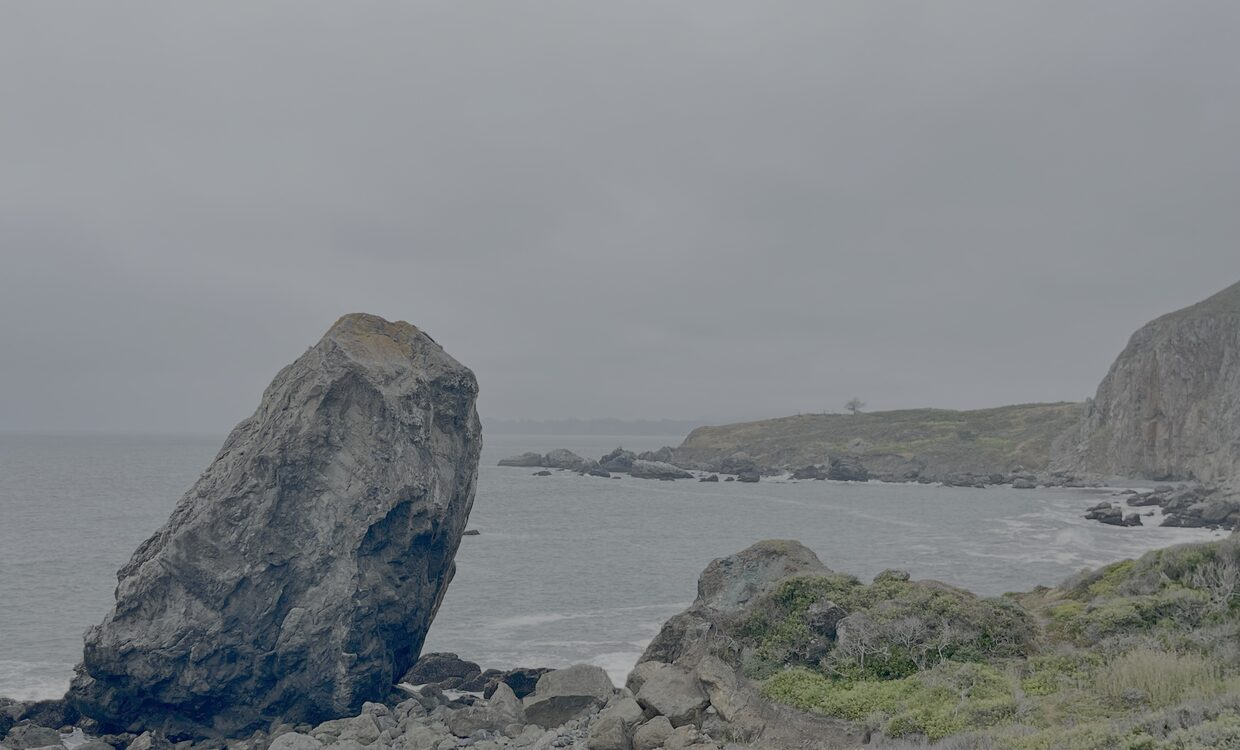
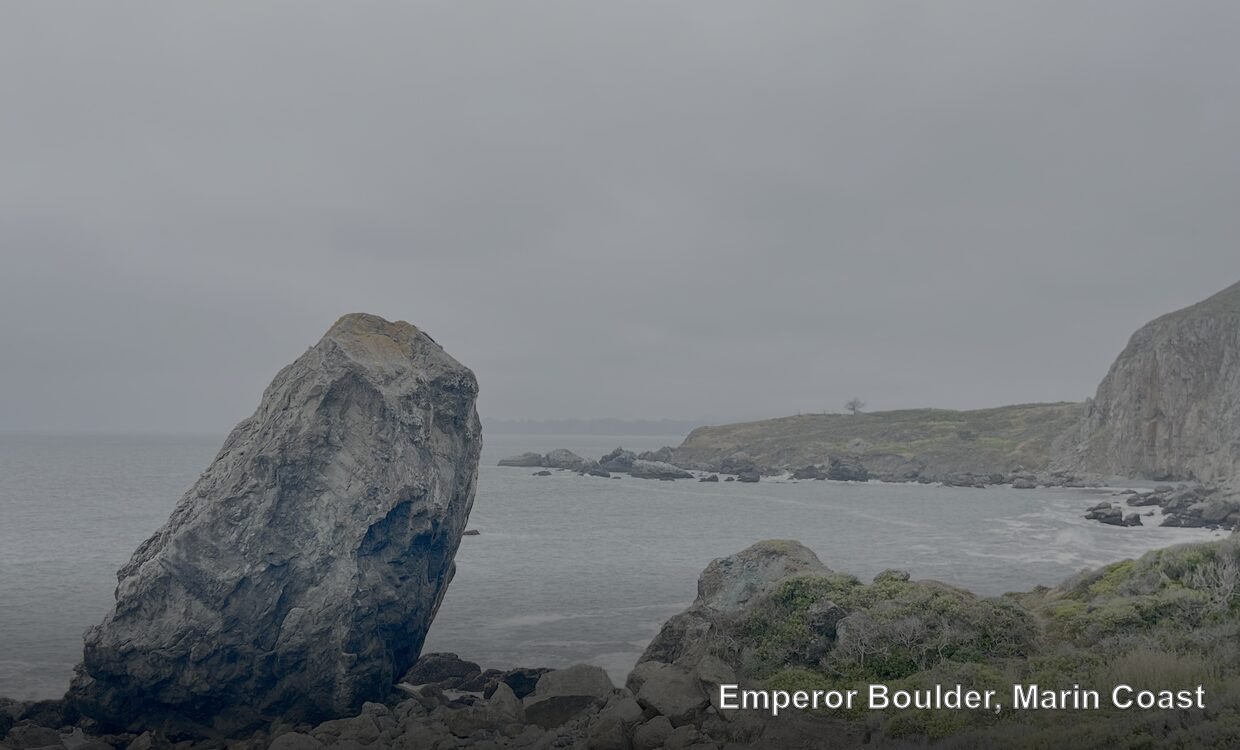
Polish email header and opener copy (#91)

Changed region(s): [[0.0, 0.7973, 1.0, 1.0]]

diff --git a/test/mailers/trip_payment_request_mailer_test.rb b/test/mailers/trip_payment_request_mailer_test.rb
@@ -1,0 +1,29 @@
+require "test_helper"
+
+class TripPaymentRequestMailerTest < ActionMailer::TestCase
+  test "request payment uses knot check opener" do
+    payment_request = trips(:yosemite).trip_payment_requests.create!(
+      first_name: "David",
+      last_name: "Ladowitz",
+      email: "david@example.com",
+      amount_cents: 4200,
+      currency: "usd",
+      reason: "Extra campsite balance"
+    )
+    payment_url = "https://example.com/pay"
+
+    mail = TripPaymentRequestMailer.with(
+      payment_request: payment_request,
+      payment_url: payment_url
+    ).request_payment
+
+    assert_equal "Cragmont Yosemite Valley Spring Payment Request", mail.subject
+    assert_equal [ "david@example.com" ], mail.to
+    assert_includes mail.html_part.body.decoded, "David Ladowitz, double check that knot before leaving the ground."
+    assert_includes mail.text_part.body.decoded, "David Ladowitz, double check that knot before leaving the ground."
+    assert_includes mail.html_part.body.decoded, payment_url
+    assert_includes mail.text_part.body.decoded, "Clip in and pay here: #{payment_url}"
+    assert_not_includes mail.html_part.body.decoded, "get stoked"
+    assert_not_includes mail.text_part.body.decoded, "get stoked"
+  end
+end

diff --git a/test/mailers/application_mailer_test.rb b/test/mailers/application_mailer_test.rb
@@ -22,8 +22,8 @@ class ApplicationMailerTest < ActionMailer::TestCase
     assert_includes html, "src=\"http://example.com/assets/email/vent-five-emperor-boulder-header"
     assert_includes html, "alt=\"Emperor Boulder, Marin Coast\""
     assert_includes html, "email-image-header"
-    assert_includes html, "email-image-caption"
     assert_includes html, "Emperor Boulder, Marin Coast"
+    assert_not_includes html, "email-image-caption"
     assert_not_includes html, "background-image"
     assert_not_includes html, "margin-left: 20%"
     assert_not_includes html, "email-footer"
@@ -37,9 +37,14 @@ class ApplicationMailerTest < ActionMailer::TestCase
       waiver_url: "https://example.com/waiver"
     ).needed
     html = mail.html_part.body.decoded
+    text = mail.text_part.body.decoded
 
+    assert_includes html, "Sam Lee, double check that knot before leaving the ground."
+    assert_includes text, "Sam Lee, double check that knot before leaving the ground."
     assert_includes html, "See you at the Crag."
     assert_equal 1, html.scan("See you at the Crag.").size
+    assert_not_includes html, "Get Stoked"
+    assert_not_includes text, "Get Stoked"
     assert_not_includes html, "email-footer"
   end
 

diff --git a/test/mailers/waiver_request_mailer_test.rb b/test/mailers/waiver_request_mailer_test.rb
@@ -15,8 +15,12 @@ class WaiverRequestMailerTest < ActionMailer::TestCase
 
     assert_equal "Cragmont Waiver Signing Request", mail.subject
     assert_equal [ users(:sam).email ], mail.to
+    assert_includes mail.html_part.body.decoded, "Sam Lee, double check that knot before leaving the ground."
     assert_includes mail.html_part.body.decoded, "Alex Rivera sent you a request to sign the Cragmont waiver."
     assert_includes mail.html_part.body.decoded, waiver_url
+    assert_includes mail.text_part.body.decoded, "Sam Lee, double check that knot before leaving the ground."
     assert_includes mail.text_part.body.decoded, "You can sign it here: #{waiver_url}"
+    assert_not_includes mail.html_part.body.decoded, "Get Stoked"
+    assert_not_includes mail.text_part.body.decoded, "Get Stoked"
   end
 end
